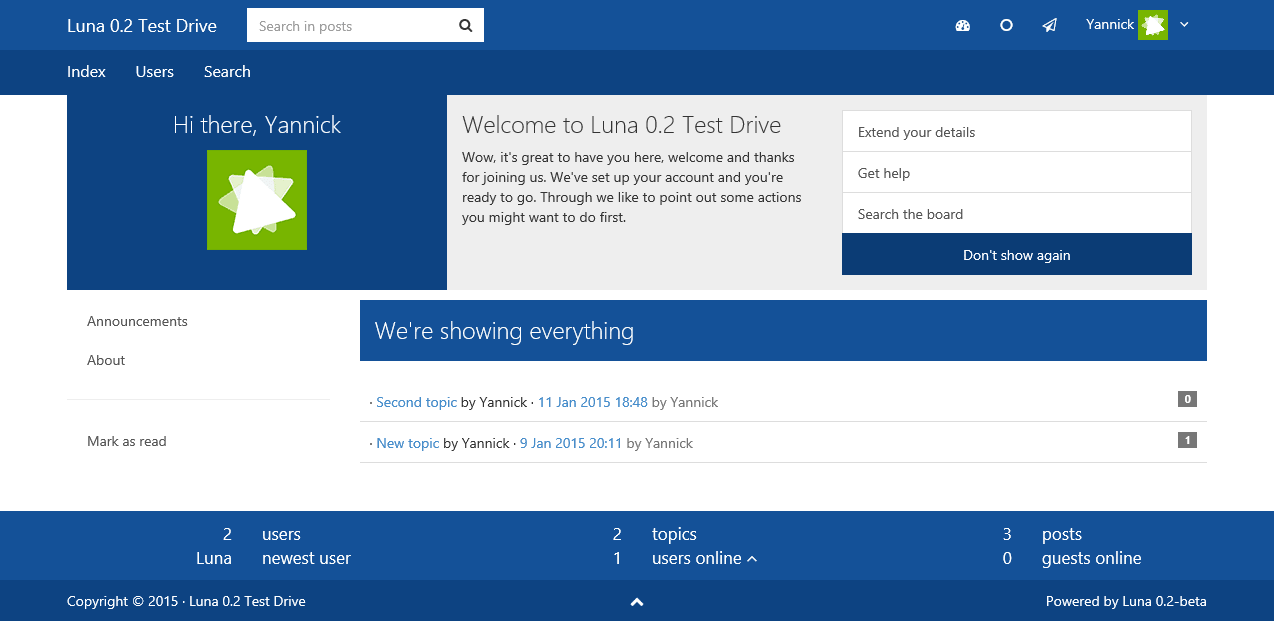
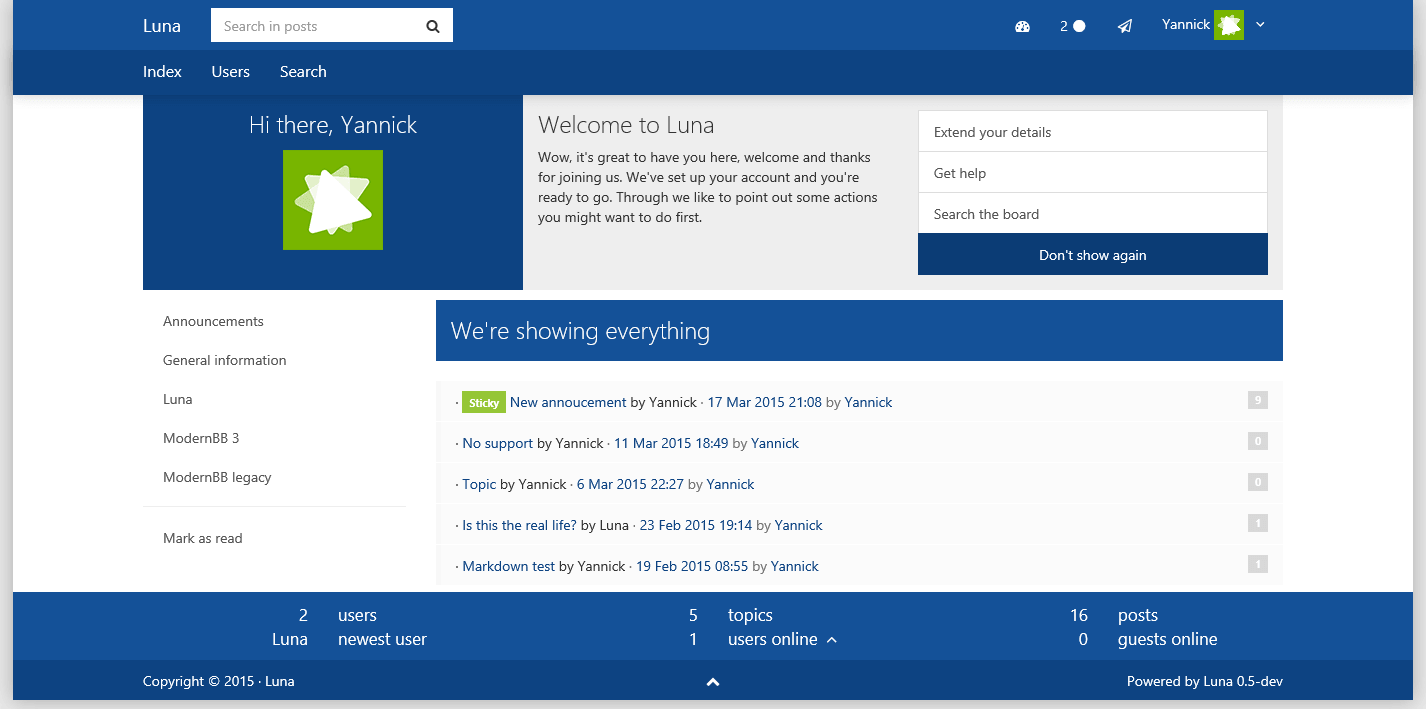
#1005 Update About for the Beta stage

diff --git a/backstage/about.php b/backstage/about.php
@@ -23,11 +23,11 @@ require 'header.php';
 	<div class="col-sm-3">
 		<div class="panel panel-default">
 			<div class="panel-heading">
-				<h3 class="panel-title">Welcome to the Luna Preview</h3>
+				<h3 class="panel-title">Welcome to the Luna Beta</h3>
 			</div>
 			<div class="panel-body">
-				<p>Welcome to the Luna Preview. It's great that you are using this software. This preview is meant to show what's coming next to Luna.</p>
-				<p>Feedback is very important for us, it would be great if you give us some. Feedback can be about everything: bugs that need to be fixed, features you would like to see, etc. Be sure to check our shiplist (see links below) before you request a feature or fill a bug, as it might be noted already.</p>
+				<p>Welcome to the Luna Beta. It's great that you are using this software. This beta is meant to show what's coming next to Luna.</p>
+				<p>Feedback is very important for us, it would be great if you give us some. For now we're looking for bugs. Be sure to check our shiplist (see links below) before you fill a bug, as it might be noted already.</p>
 			</div>
 			<div class="panel-footer">
 				<div class="btn-group">
@@ -55,7 +55,6 @@ require 'header.php';
 				<h3 class="panel-title">Updates</h3>
 			</div>
 			<div class="list-group">
-				<a href="#updates" class="list-group-item">Updates</a>
 				<a href="#p0" class="list-group-item">Preview 0</a>
 				<a href="#p0u1" class="list-group-item">Preview 0 Update 1</a>
 				<a href="#p0u2" class="list-group-item">Preview 0 Update 2</a>
@@ -71,13 +70,14 @@ require 'header.php';
 				<a href="#p4" class="list-group-item">Preview 4</a>
 				<a href="#p4u1" class="list-group-item">Preview 4 Update 1</a>
 				<a href="#p4u2" class="list-group-item">Preview 4 Update 2</a>
+				<a href="#b1" class="list-group-item">Beta 1</a>
 			</div>
 		</div>
 	</div>
 	<div class="col-sm-9">
 		<div class="panel panel-default">
 			<div class="panel-heading">
-				<h3 class="panel-title">About Luna 1.0 Preview</h3>
+				<h3 class="panel-title">About Luna 1.0 Beta</h3>
 			</div>
 			<div class="panel-body panel-about">
 				<a id="brand"></a><h3><span class="fa fa-fw fa-moon-o"></span>New brand</h3>
@@ -243,7 +243,7 @@ require 'header.php';
 						<b>Font Awesome</b> has been updated from version 4.1.0 to 4.3.0.<br />
 						<b>jQuery</b> has been updated from version 2.1.1 to 2.1.3.<br />
 						<b>PrismJS</b> has been added.<br />
-						<b>Core</b> has been updated from version 0.0.37.2592 to 0.4.3999.</p>
+						<b>Core</b> has been updated from version 0.0.37.2592 to 0.5.40xx.</p>
 					</div>
 					<div class="col-sm-6">
 						<h4>Bugfixes</h4>
@@ -608,6 +608,18 @@ require 'header.php';
 								<span class="label label-primary">3999</span> The Inbox navbar has been updated with a better design<br />
 								<span class="label label-primary">3999</span> Updates to the language files<br />
 								<span class="label label-primary">3999</span> Multiple bugfixes
+							</p>
+						</div>
+					</div>
+					<h4><a id="b1"></a>Beta 1 &middot; Build 40xx</h4>
+					<div class="row">
+						<div class="col-sm-6">
+							<p>
+								<span class="label label-primary">40xx</span> Multiple bugfixes
+							</p>
+						</div>
+						<div class="col-sm-6">
+							<p>
 							</p>
 						</div>
 					</div>

diff --git a/include/version.php b/include/version.php
@@ -7,10 +7,10 @@
 
 class Version {
 	// See http://getluna.org/docs/version.php for more info
-	const FORUM_VERSION = '0.4.2';
+	const FORUM_VERSION = '0.5-dev';
 
 	// The Luna Core version
-	const FORUM_CORE_VERSION = '0.4.3999';
+	const FORUM_CORE_VERSION = '0.5.4000';
 	
 	// The Luna Core code name
 	const FORUM_CODE_NAME = 'aero';

diff --git a/README.md b/README.md
@@ -1,4 +1,4 @@
-# Luna 1.0 "Aero" Preview
+# Luna 1.0 "Aero" Beta
 
 ## About
 Luna is an open source board software app released under the GPLv3 license. The goal of this project is to be light and small, yet fully functional for a good board. Everything else is up to plugins.
